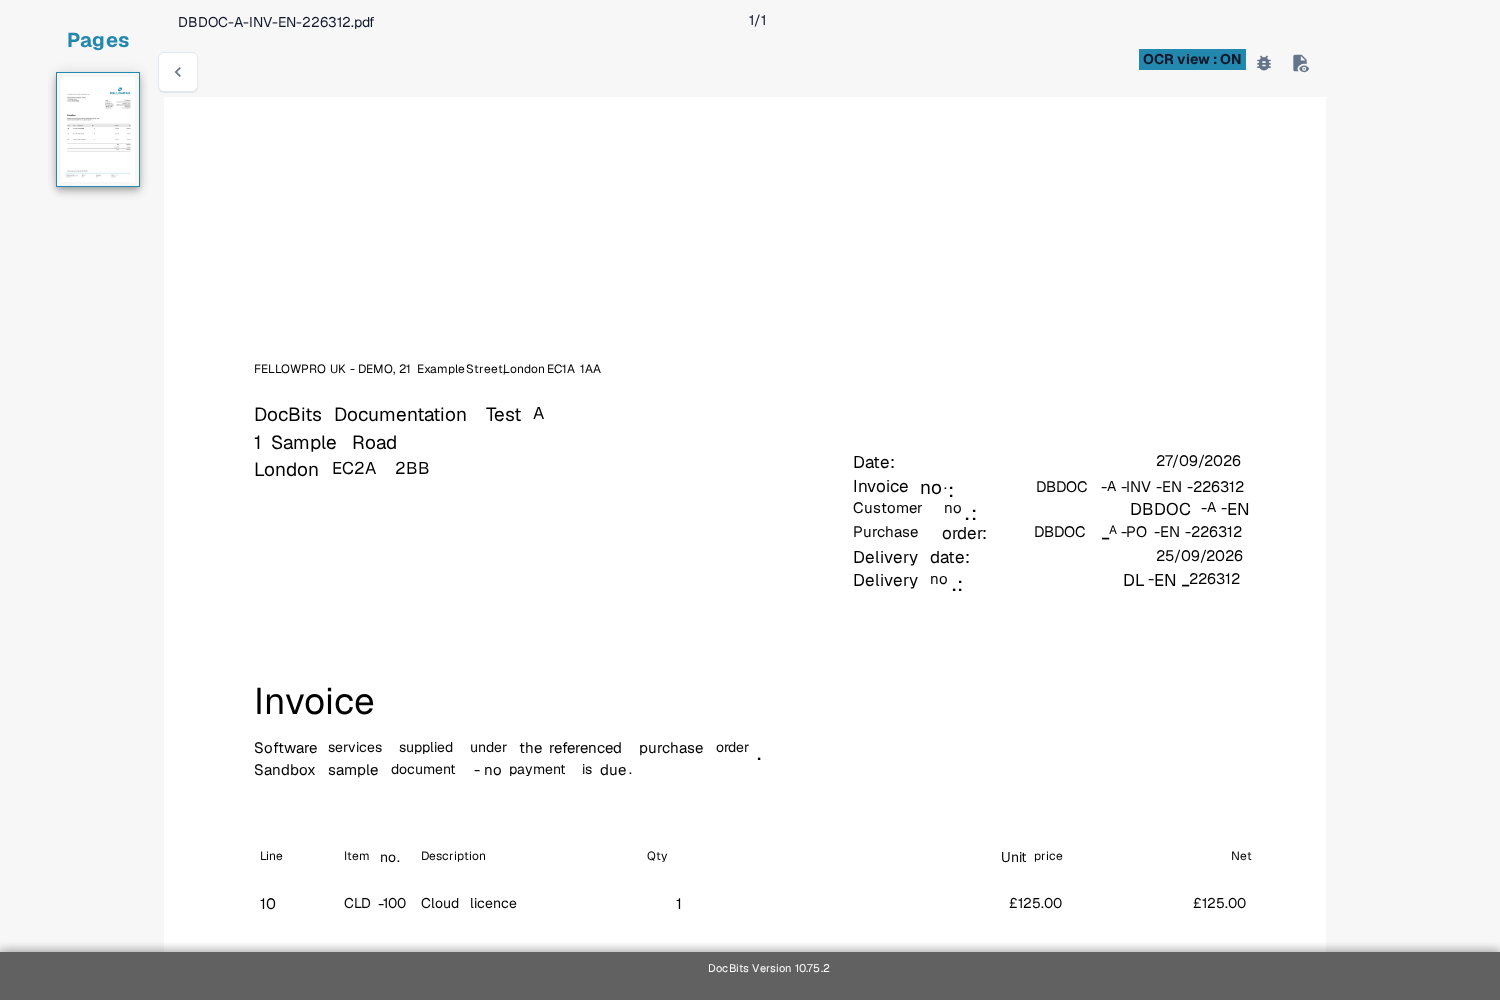
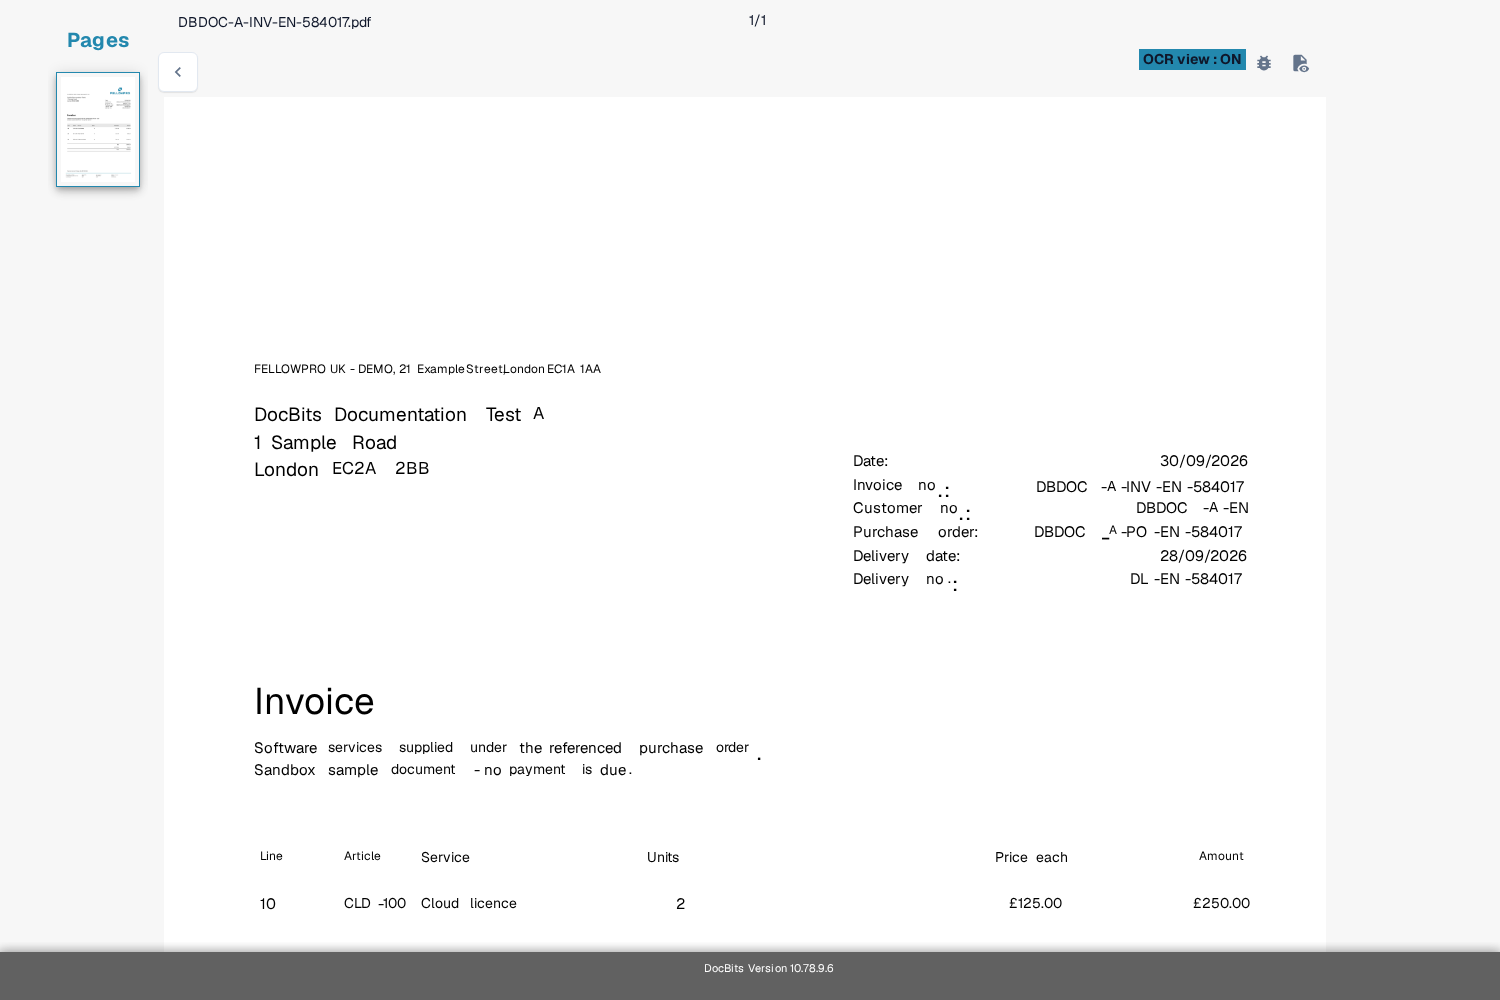
docs: vary demo invoice columns in OCR-view screenshot (DBDC-159)
Reviewer request (comment 103770): change the columns of the demo
invoice in the OCR-view screenshot. Replaced the image with a fresh
English sandbox capture whose invoice table shows Line, Article,
Service, Units, Price each and Amount.

diff --git a/readme/end-user-and-partner-section/end-user-section/validation-screen/troubleshooting/missing-text-in-ocr-extraction.md b/readme/end-user-and-partner-section/end-user-section/validation-screen/troubleshooting/missing-text-in-ocr-extraction.md
@@ -8,7 +8,7 @@ If text is visible on a document but a field cannot be extracted, first check wh
 2. In the toolbar on the right, select the **OCR View** icon. The OCR view opens in a separate browser tab.
 3. Look for the missing word or number in the recognized text overlay. If it is absent, field extraction cannot select it from that text layer. If it is present, check the field mapping instead.
 
-<figure><img src="../../../../.gitbook/assets/dbdc159-ocr-view-en.png" alt="OCR view of a synthetic English invoice with recognized words overlaid on the page"><figcaption><p>Compare the text on the document with the words shown in OCR View. This example shows recognized text, not a failed extraction.</p></figcaption></figure>
+<figure><img src="../../../../.gitbook/assets/dbdc159-ocr-view-en.png" alt="OCR view of a synthetic English invoice with recognized words overlaid on the page"><figcaption><p>Compare the text on the document with the words shown in OCR View — here the invoice table columns Line, Article, Service, Units, Price each and Amount are all recognized. This example shows recognized text, not a failed extraction.</p></figcaption></figure>
 
 ## Try OCR instead of embedded E-Text for one supplier
 
